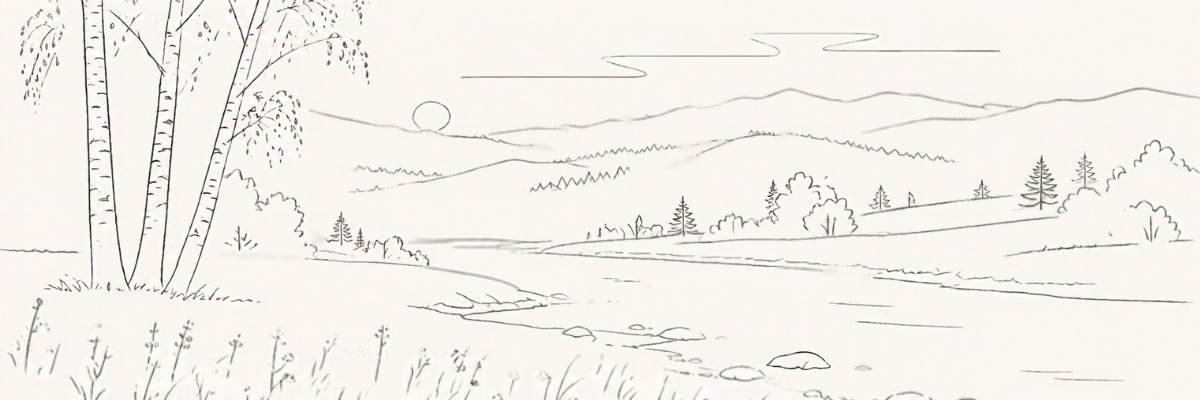
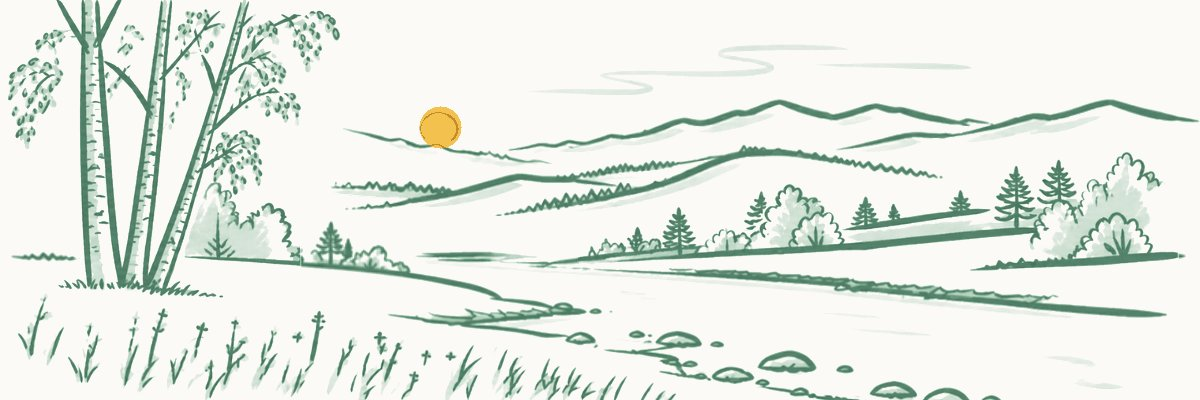
로그인 배너를 마커펜 굵은 선 드로잉으로 교체, 화면 색(진초록 선·연초록 채움·미색 바탕·노란 해)으로 재채색 (v0.4.5)

diff --git a/register.html b/register.html
@@ -1,1 +1,1 @@
-<!doctype html><html lang="ko"><head><meta charset="utf-8"><meta name="viewport" content="width=device-width,initial-scale=1"><title>북 워킹 · 이용 신청</title><link href="https://fonts.googleapis.com/css2?family=Noto+Sans+KR:wght@400;500;700;800&display=swap" rel="stylesheet"><link rel="stylesheet" href="style.css?v=0.4.4"></head><body><main class="login-view"><section class="login-card"><h1>북 워킹 이용 신청</h1><p>관리자 승인 후 신청하신 이메일로 임시 비밀번호를 안내해 드려요.</p><form id="requestForm"><label>이메일 아이디<input name="loginId" type="email" maxlength="254" placeholder="test@gmail.com" required autocomplete="email" autocapitalize="none" spellcheck="false"></label><p id="dupCheck" class="dup-check" role="status" aria-live="polite" hidden></p><label>닉네임<input name="displayName" maxlength="40" required></label><p class="beta-note"><b>베타 테스트 서비스</b> · 초대·승인된 베타 테스터만 이용하며, 기능과 이용 조건은 예고 없이 바뀔 수 있어요.<br>이용 신청 처리(승인·안내 메일)를 위해 이메일 아이디와 닉네임만 받고, 처리 후 30일 이내 삭제해요.</p><p class="hint" id="signupPolicy">승인 후 베타 테스터 역할의 고정 한도가 적용돼요.</p><button id="registerSubmit" type="submit">가입 신청하기</button></form><p id="result" role="status" aria-live="polite" hidden></p><a class="back-to-login" href="./">로그인 화면으로 돌아가기</a></section></main><dialog id="registrationSuccess" class="registration-dialog" aria-labelledby="successTitle" aria-describedby="successDescription"><form method="dialog"><h2 id="successTitle">이용 신청이 접수됐어요</h2><p id="successDescription" style="white-space:pre-line">관리자가 확인한 뒤, 신청하신 이메일로 임시 비밀번호를 안내해 드릴게요. 조금만 기다려 주세요.</p><button type="submit" autofocus>확인</button></form></dialog><script src="config.js?v=0.4.4"></script><script src="telemetry.js?v=0.4.4"></script><script src="register.js?v=0.4.4" type="module"></script></body></html>
+<!doctype html><html lang="ko"><head><meta charset="utf-8"><meta name="viewport" content="width=device-width,initial-scale=1"><title>북 워킹 · 이용 신청</title><link href="https://fonts.googleapis.com/css2?family=Noto+Sans+KR:wght@400;500;700;800&display=swap" rel="stylesheet"><link rel="stylesheet" href="style.css?v=0.4.5"></head><body><main class="login-view"><section class="login-card"><h1>북 워킹 이용 신청</h1><p>관리자 승인 후 신청하신 이메일로 임시 비밀번호를 안내해 드려요.</p><form id="requestForm"><label>이메일 아이디<input name="loginId" type="email" maxlength="254" placeholder="test@gmail.com" required autocomplete="email" autocapitalize="none" spellcheck="false"></label><p id="dupCheck" class="dup-check" role="status" aria-live="polite" hidden></p><label>닉네임<input name="displayName" maxlength="40" required></label><p class="beta-note"><b>베타 테스트 서비스</b> · 초대·승인된 베타 테스터만 이용하며, 기능과 이용 조건은 예고 없이 바뀔 수 있어요.<br>이용 신청 처리(승인·안내 메일)를 위해 이메일 아이디와 닉네임만 받고, 처리 후 30일 이내 삭제해요.</p><p class="hint" id="signupPolicy">승인 후 베타 테스터 역할의 고정 한도가 적용돼요.</p><button id="registerSubmit" type="submit">가입 신청하기</button></form><p id="result" role="status" aria-live="polite" hidden></p><a class="back-to-login" href="./">로그인 화면으로 돌아가기</a></section></main><dialog id="registrationSuccess" class="registration-dialog" aria-labelledby="successTitle" aria-describedby="successDescription"><form method="dialog"><h2 id="successTitle">이용 신청이 접수됐어요</h2><p id="successDescription" style="white-space:pre-line">관리자가 확인한 뒤, 신청하신 이메일로 임시 비밀번호를 안내해 드릴게요. 조금만 기다려 주세요.</p><button type="submit" autofocus>확인</button></form></dialog><script src="config.js?v=0.4.5"></script><script src="telemetry.js?v=0.4.5"></script><script src="register.js?v=0.4.5" type="module"></script></body></html>

diff --git a/app.js b/app.js
@@ -1,6 +1,6 @@
-import { ROLE_LABEL, DAY_NOTE, policyText, logoutUsage } from './role-policy.js?v=0.4.4';
+import { ROLE_LABEL, DAY_NOTE, policyText, logoutUsage } from './role-policy.js?v=0.4.5';
 // 북 워킹 모바일 웹. 로그인·세션은 frontend-go-fishing/auth.js 를 그대로 쓴다(토큰은 sessionStorage, 서버가 만료 최종 판단).
-import { state, api, health, login, logout, startTimer, setOnAuthLost, setOnMustChange, saveAuth, syncAccount, remaining, sessionMinutes } from './auth.js?v=0.4.4';
+import { state, api, health, login, logout, startTimer, setOnAuthLost, setOnMustChange, saveAuth, syncAccount, remaining, sessionMinutes } from './auth.js?v=0.4.5';
 
 import { createDestinationDialog, pointOf } from './destination.js?v=0.1.8';
 const openDestination = createDestinationDialog(document, api);
@@ -98,7 +98,7 @@ $('#planForm').onsubmit = async e => {
   finally { clearInterval(tick); btn.disabled = false; btn.textContent = '북 워킹 만들기'; }
 };
 
-// ---------- 오늘의 걷기 날씨 카드(캔바 시안 v0.4.4): 상태 칩 + 팁 + 시간별 예보 칸(카드 너비를 고르게 채움) ----------
+// ---------- 오늘의 걷기 날씨 카드(캔바 시안 v0.4.5): 상태 칩 + 팁 + 시간별 예보 칸(카드 너비를 고르게 채움) ----------
 const WX_ICON = {
   sun: '<circle cx="12" cy="12" r="4.2" class="i-sun"/><path class="i-ray" d="M12 2.5v2.2M12 19.3v2.2M2.5 12h2.2M19.3 12h2.2M5.3 5.3l1.6 1.6M17.1 17.1l1.6 1.6M5.3 18.7l1.6-1.6M17.1 6.9l1.6-1.6"/>',
   moon: '<path class="i-moon" d="M19 14.5A7.5 7.5 0 0 1 9.5 5a7.5 7.5 0 1 0 9.5 9.5z"/>',
@@ -272,7 +272,7 @@ function renderPlaces() {
   const isHere = Boolean(here && cur && cur === here.label), saved = places.find(p => p.label === cur);
   const temp = cur && !isHere && !saved ? cur : null; // 기록·추천·이번만 쓰기로 정한 출발지(저장 안 된 곳)
   const canSave = !full && (isHere || temp);
-  // 위계 v0.4.4: ① 선택 결과(배너) ② 현재 위치(큰 버튼) ③ 자주 걷는 곳(2칸 타일) ④ 저장·추가(글자 버튼)
+  // 위계 v0.4.5: ① 선택 결과(배너) ② 현재 위치(큰 버튼) ③ 자주 걷는 곳(2칸 타일) ④ 저장·추가(글자 버튼)
   const tile = (attrs, label, on, tag = '') => `<button type="button" class="origin-tile" role="radio" aria-checked="${on}" ${attrs}>${ORIGIN_ICON[on ? 'check' : 'pin']}<span>${esc(label)}</span>${tag}</button>`;
   box.innerHTML =
     `<button type="button" class="origin-gps" role="radio" aria-checked="${isHere}" data-here${locating ? ' aria-busy="true"' : ''}>${ORIGIN_ICON.gps}<span><b>${locating ? '현재 위치 찾는 중…' : '현재 위치'}</b><small>${isHere ? esc(here.label) : '지금 있는 곳에서 출발'}</small></span>${isHere ? ORIGIN_ICON.check : ''}</button>`

diff --git a/index.html b/index.html
@@ -11,13 +11,13 @@
   <link rel="preconnect" href="https://fonts.googleapis.com">
   <link rel="preconnect" href="https://fonts.gstatic.com" crossorigin>
   <link href="https://fonts.googleapis.com/css2?family=Noto+Sans+KR:wght@400;500;700;800&display=swap" rel="stylesheet">
-  <link rel="stylesheet" href="style.css?v=0.4.4">
+  <link rel="stylesheet" href="style.css?v=0.4.5">
 </head>
 <body>
   <!-- 로그인 -->
   <section id="loginView" class="login-view" hidden>
     <div class="login-card">
-      <img class="login-hero" src="assets/login-hero.jpg?v=0.4.4" alt="" width="1200" height="400" decoding="async" fetchpriority="high">
+      <img class="login-hero" src="assets/login-hero.jpg?v=0.4.5" alt="" width="1200" height="400" decoding="async" fetchpriority="high">
       <p class="eyebrow">BOOK WALKING · 걷기와 책</p>
       <h1 class="login-title">걷고, 읽고,<br><em>쉬어 가요</em></h1>
       <form id="loginForm" autocomplete="on">
@@ -191,8 +191,8 @@
       <button data-tab="opinion" type="button"><span><svg viewBox="0 0 24 24" aria-hidden="true"><path d="M5 18l-1 3 4-2c1.2.5 2.6.8 4 .8 5 0 8-3.4 8-7.4S17 5 12 5 4 8.4 4 12.4c0 2.2 1 4.1 2.6 5.4"/></svg></span>의견</button>
     </nav>
   </div>
-  <script src="config.js?v=0.4.4"></script>
-  <script src="telemetry.js?v=0.4.4"></script>
-  <script src="app.js?v=0.4.4" type="module"></script>
+  <script src="config.js?v=0.4.5"></script>
+  <script src="telemetry.js?v=0.4.5"></script>
+  <script src="app.js?v=0.4.5" type="module"></script>
 </body>
 </html>

diff --git a/admin.js b/admin.js
@@ -1,7 +1,7 @@
-import { ROLE_LABEL, policyText, DAY_NOTE } from './role-policy.js?v=0.4.4';
+import { ROLE_LABEL, policyText, DAY_NOTE } from './role-policy.js?v=0.4.5';
 import { approvalMailto } from './approval-email.js?v=0.1.7';
 // 북 워킹 관리자 화면(backend-go-fishing/frontend-go-fishing 운영관리와 동일 구성 + 플랜·코스 탭): 계정·세션·사용량·대화 로그·로그인/작업 기록. 관리자 계정으로 로그인한 탭에서만 동작.
-import { state, api, health, startTimer, syncAccount, setOnAuthLost, logout } from './auth.js?v=0.4.4';
+import { state, api, health, startTimer, syncAccount, setOnAuthLost, logout } from './auth.js?v=0.4.5';
 const $ = s => document.querySelector(s);
 const esc = s => String(s ?? '').replace(/[&<>"']/g, c => ({ '&': '&amp;', '<': '&lt;', '>': '&gt;', '"': '&quot;', "'": '&#39;' }[c]));
 const dt = v => v ? new Date(v).toLocaleString('ko-KR', { timeZone: 'Asia/Seoul', month: '2-digit', day: '2-digit', hour: '2-digit', minute: '2-digit' }) : '-';

diff --git a/admin.html b/admin.html
@@ -8,8 +8,8 @@
   <title>북 워킹 · 관리자</title>
   <link rel="icon" href="assets/icon.svg" type="image/svg+xml">
   <link href="https://fonts.googleapis.com/css2?family=Noto+Sans+KR:wght@400;500;700;800&display=swap" rel="stylesheet">
-  <link rel="stylesheet" href="admin-base.css?v=0.4.4">
-  <link rel="stylesheet" href="admin.css?v=0.4.4">
+  <link rel="stylesheet" href="admin-base.css?v=0.4.5">
+  <link rel="stylesheet" href="admin.css?v=0.4.5">
 </head>
 <body>
   <div class="admin">
@@ -25,7 +25,7 @@
     <main id="view" class="aview"><p class="sub">불러오는 중…</p></main>
   </div>
   <dialog id="dlg"><form method="dialog" class="settings" id="dlgForm"></form></dialog>
-  <script src="config.js?v=0.4.4"></script><script src="telemetry.js?v=0.4.4"></script>
-  <script src="admin.js?v=0.4.4" type="module"></script>
+  <script src="config.js?v=0.4.5"></script><script src="telemetry.js?v=0.4.5"></script>
+  <script src="admin.js?v=0.4.5" type="module"></script>
 </body>
 </html>

diff --git a/sw.js b/sw.js
@@ -1,5 +1,5 @@
 // 앱 셸만 캐시(오프라인 첫 화면). API 응답은 캐시하지 않는다(날씨는 항상 최신 조회).
-const CACHE = 'bookwalking-shell-v33';
+const CACHE = 'bookwalking-shell-v34';
 const SHELL = ['./', './manifest.webmanifest', './assets/icon.svg'];
 self.addEventListener('install', e => e.waitUntil(caches.open(CACHE).then(c => c.addAll(SHELL)).then(() => self.skipWaiting())));
 self.addEventListener('activate', e => e.waitUntil(caches.keys().then(ks => Promise.all(ks.filter(k => k !== CACHE).map(k => caches.delete(k)))).then(() => self.clients.claim())));

diff --git a/register.js b/register.js
@@ -1,6 +1,6 @@
-import { policyText, DAY_NOTE } from './role-policy.js?v=0.4.4';
+import { policyText, DAY_NOTE } from './role-policy.js?v=0.4.5';
 document.querySelector('#signupPolicy').textContent = policyText('user') + '. ' + DAY_NOTE;
-import {api} from './auth.js?v=0.4.4';
+import {api} from './auth.js?v=0.4.5';
 const form=document.querySelector('#requestForm');
 const result=document.querySelector('#result');
 const button=document.querySelector('#registerSubmit');

diff --git a/README.md b/README.md
@@ -32,7 +32,7 @@ npm test
 ## 디자인 리프레시 v0.2.0 (Canva 시안 `DAHbOmuX9wM`)
 - 모든 연령이 편하게 읽는 무난한 톤: 배경 따뜻한 종이색 `#F7F5EF`, 카드 흰색(16px 둥근 모서리·옅은 그림자), 주색 숲 초록 `#2F6B4F`, 날씨 하늘색 `#3B82C4`, 주의 앰버, 실내 권장 빨강.
 - 글꼴 Noto Sans KR, 본문 16px, 터치 영역 44px 이상, 입력칸 48px·버튼 52px.
-- 로그인: 모더니즘 선 드로잉 풍경 배너(`assets/login-hero.jpg`, 캔바 생성), 새 심볼(`assets/icon.svg`, 펼친 책 + 갈림길).
+- 로그인: 마커펜 굵은 선 풍경 배너(`assets/login-hero.jpg`, 캔바 생성 후 화면 색 진초록·연초록·노란 해로 재채색), 새 심볼(`assets/icon.svg`, 펼친 책 + 갈림길).
 - 사용자 화면: 하단 탭·헤더 버튼을 라인 아이콘으로, 걷기 지수 원형 점수, 시간별 예보 하늘색 카드, 오디오 워킹 초록 카드, 결과 섹션 카드화.
 - 관리자: 같은 색, 알약형 탭, 정원 카드, 가입 승인(초록)·거절(빨강) 버튼, 모바일 표 → 카드.
 - `style.css`·`admin.css` 끝의 "디자인 리프레시 v0.2.0" 블록이 이전 스타일을 덮어쓴다. 서비스 워커 캐시 v10.
